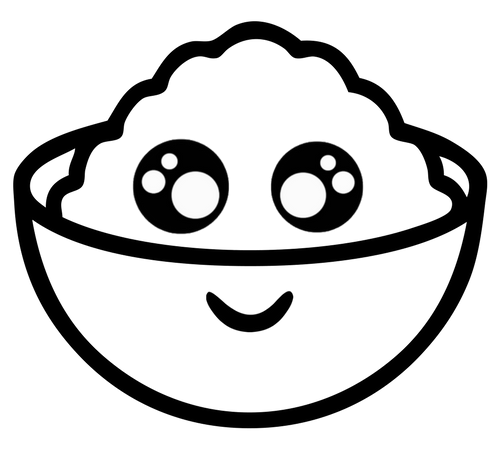
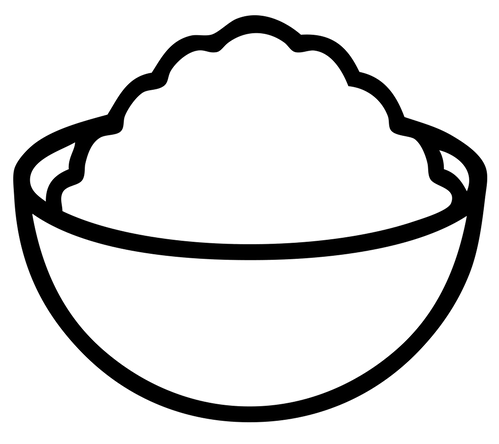
Modified front image and updated about section

diff --git a/src/views/edit.html b/src/views/edit.html
@@ -153,17 +153,20 @@
                             <input class="form-control" type="text" value="" id="editFavCuisine">
                         </div>
                     </div>
-<!--Source for chosen library to format select: https://github.com/harvesthq/chosen -->
-                    <div class="row small-padding">
+                    <!--Source for chosen library to format select: https://github.com/harvesthq/chosen -->
+                    <div class="row form-group" id=interests-bar>
                         <label for="interests-select" class="col-2 col-form-label small-padding">Interests</label>
-                        <select id="interests-select" class="my_select_box" multiple data-placeholder="Select 3 Options">
-                            <option value="Dance">Dance</option>
-                            <option value="Music">Music</option>
-                            <option value="Painting">Painting</option>
-                            <option value="Sports">Sports</option>
-                            <option value="Video Games">Video Games</option>
-                        </select>
+                        <div class="col-12 small-padding">
+                            <select id="interests-select" class="my_select_box" multiple data-placeholder="Select 3 Options">
+                                <option value="Dance">Dance</option>
+                                <option value="Music">Music</option>
+                                <option value="Painting">Painting</option>
+                                <option value="Sports">Sports</option>
+                                <option value="Video Games">Video Games</option>
+                            </select>
+                        </div>
                     </div>
+                    <br>
 <!-- 
                     <div class="form-group row small-padding">
                         <label for="editUserInterests" class="col-2 col-form-label small-padding">Interests</label>

diff --git a/src/views/about.html b/src/views/about.html
@@ -39,6 +39,12 @@
             <h4 class="big-padding">We developed mealmate to help MIT students meet and befriend peers and to brighten their lives. We hope beautiful friendships will form and MIT students will be happier from sharing delicious meals with good company.</h4>
         </div>
         
+        <div class= "container text-center">
+            <h1><img class="header-lines" src="/static/img/left_line.png">HOW YOU GET MATCHED<img class="header-lines" src="/static/img/right_line.png"></h1>
+            <img src="static/img/meal.jpg" class="img-responsive big-padding">
+            <h4 class="big-padding">We take your availability and ranked dining halls into consideration! We hope students will both eat with old friends and befriend new faces. You can also accept or decline any match before it becomes a confirmed meal.</h4>
+        </div>
+        
         <div class= "container text-center"> <!-- last section, about the creators -->
             <h1><img class="header-lines" src="/static/img/left_line.png"> ABOUT THE CREATORS <img class="header-lines" src="/static/img/right_line.png"></h1>
             <div class="row">

diff --git a/src/views/profile.html b/src/views/profile.html
@@ -82,12 +82,13 @@
                         <h4><span style="font-weight:bold">FAVORITE CUISINE: </span><span id="favcuisine"></span></h4>
                         <h4><span style="font-weight:bold">INTERESTS: </span><span id="interests"></span></h4>
                         <br>
+                        <!--
                         <h2 class="add-line">SOCIAL MEDIA</h2>
                         <h4><span style="font-weight:bold">FACEBOOK: </span>nanxii</h4>
                         <h4><span style="font-weight:bold">INSTAGRAM: </span>nanxii</h4>
                         <h4><span style="font-weight:bold">SNAPCHAT: </span>nanxii</h4>
                         <h4><span style="font-weight:bold">TWITTER: </span>nanxii</h4>
-                        
+                        -->
                         <!-- Inserts About, Course and Class, and Living Group with Javascript... old code!
                         <div id='userAbout'>
                         <div id='userCourseClass'></div>

diff --git a/public/css/style.css b/public/css/style.css
@@ -27,6 +27,10 @@
     font-size: 40px;
 }
 
+#interests-bar {
+    padding-left: 5%;
+}
+
 #back-to-profile {
     color: #66A25C;
     margin-left: 0.5%;
@@ -128,7 +132,6 @@
     font-weight: normal;
 }
 
-<<<<<<< HEAD
 .modal {
     display: none; /* Hidden by default */
     position: fixed; /* Stay in place */
